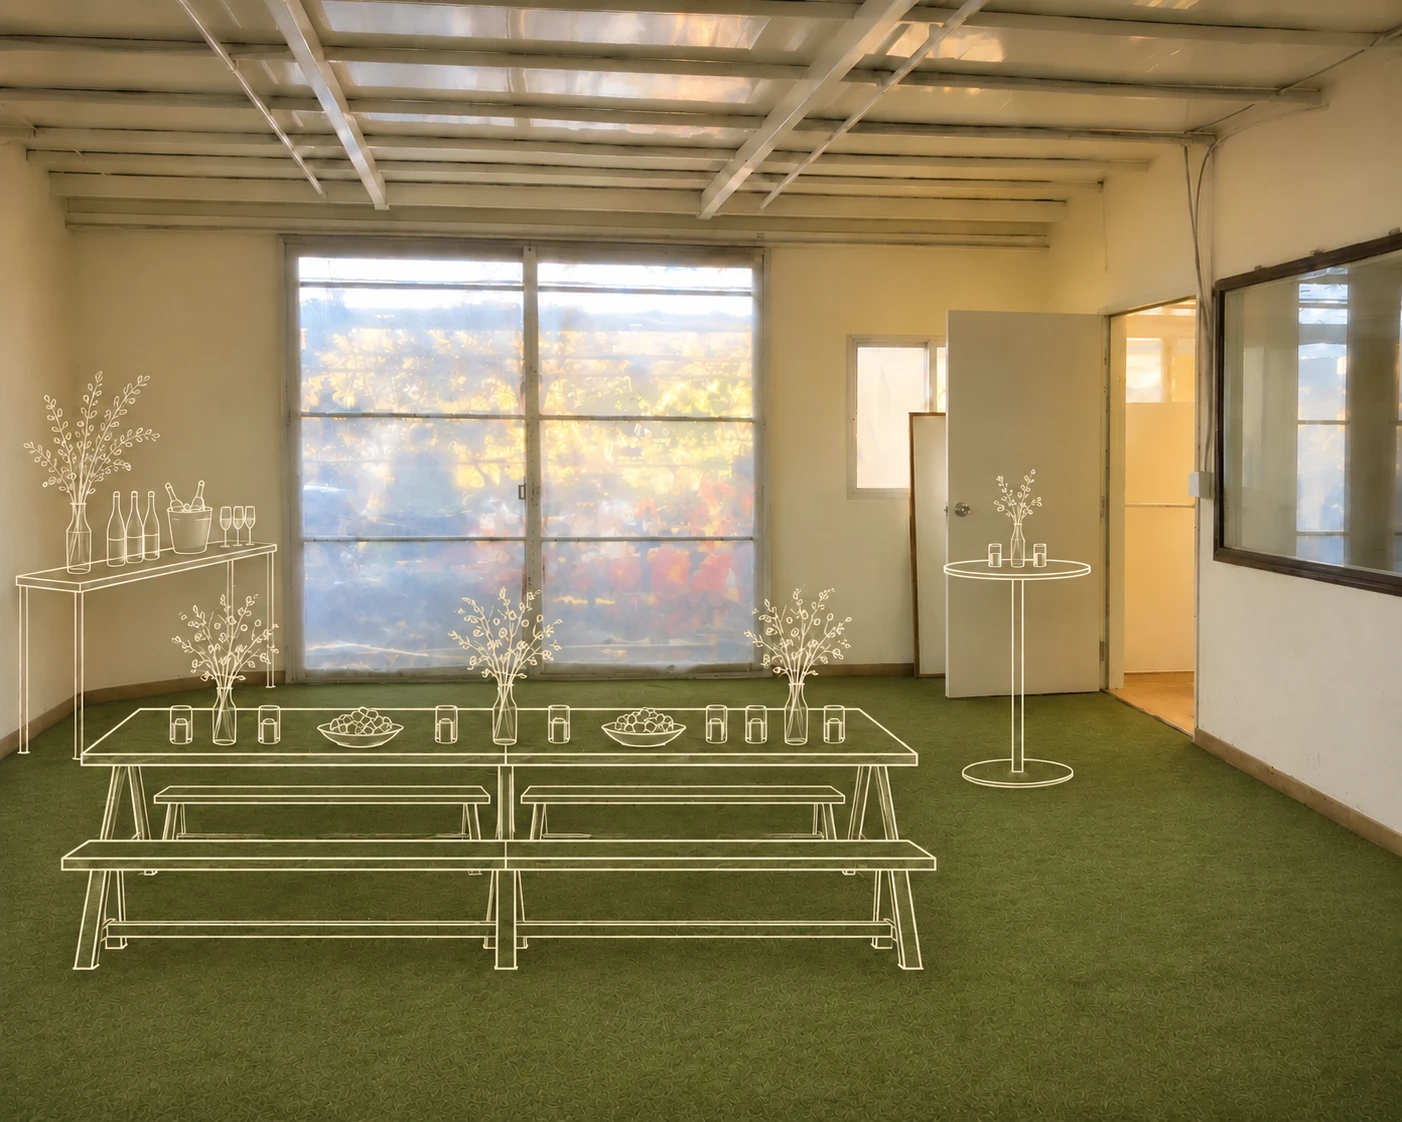
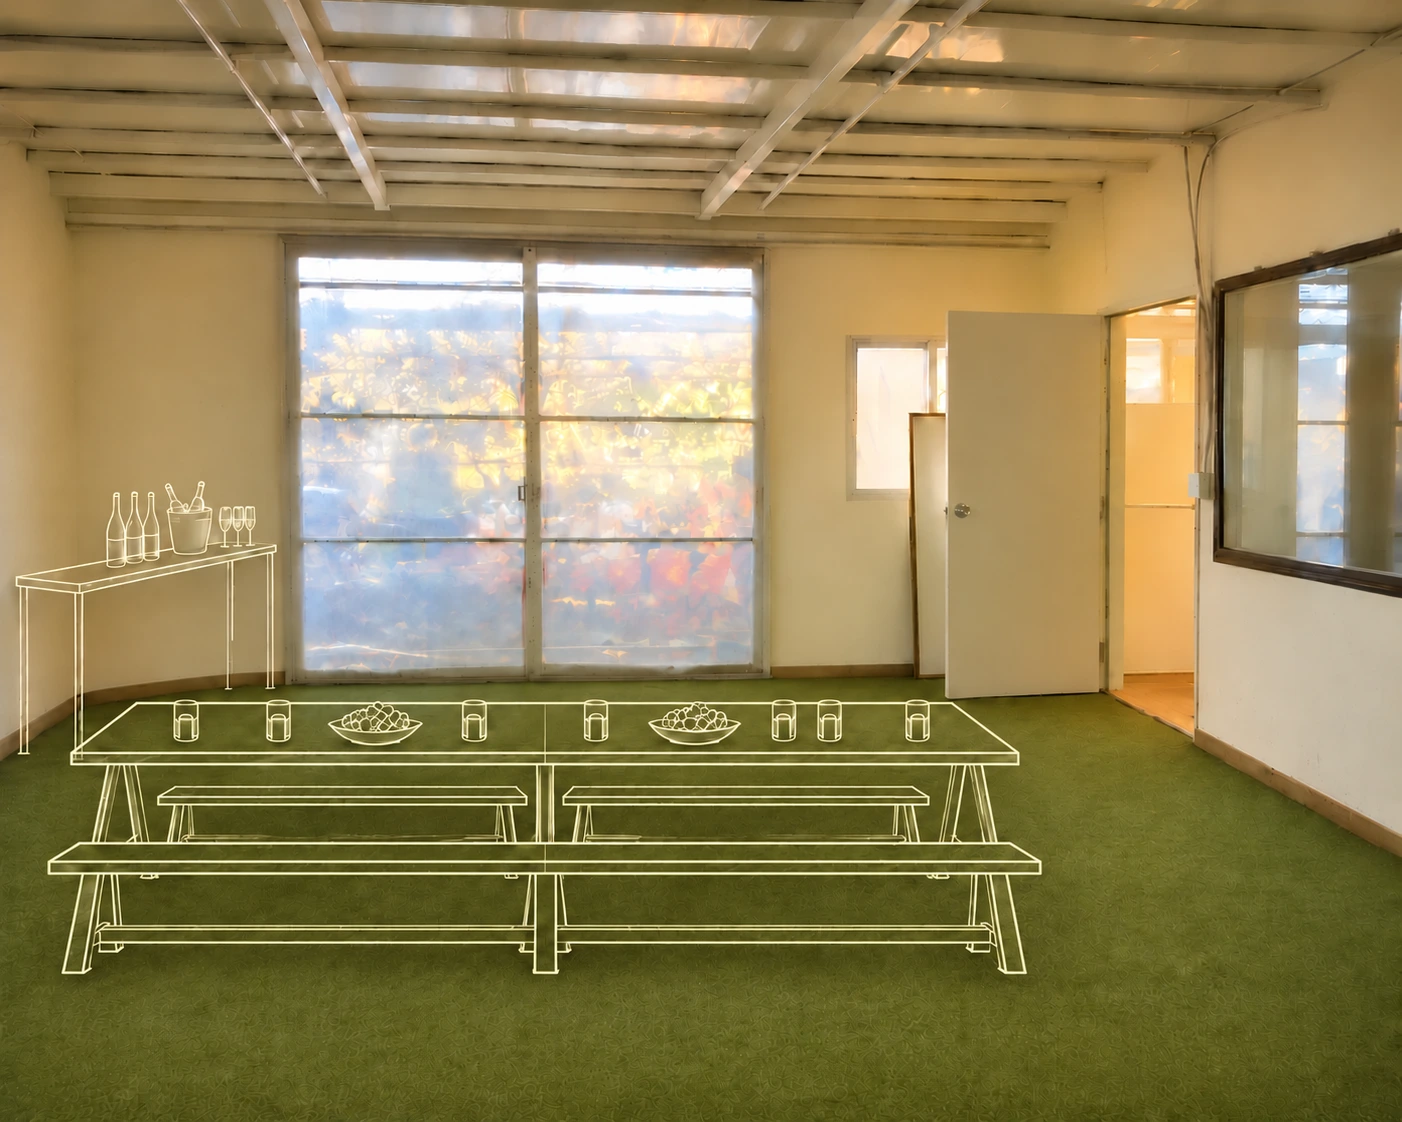
Mark the camp walkway and clear the party lounge doorway

diff --git a/index.html b/index.html
@@ -1,3 +1,3 @@
-<!doctype html><html lang="ko"><head><meta charset="utf-8"><meta name="viewport" content="width=device-width,initial-scale=1,viewport-fit=cover"><meta name="theme-color" content="#e9e2d6"><title>iHKG · 길드하우스</title><link rel="stylesheet" href="style.css"><link rel="stylesheet" href="camp-map.css?v=20261127-canvas"><link rel="stylesheet" href="shop.css?v=20261117-shop2"><link rel="stylesheet" href="signup.css?v=20261125-3"><link rel="stylesheet" href="event-layout.css?v=calendar1"></head><body><div id="app"><header><button id="mode" aria-label="지도와 목록 전환">☷</button><strong id="title">길드하우스 · Center Camp</strong><button id="filter" aria-label="필터">☷</button></header><main id="main"></main><div id="floating"><button id="fav" aria-label="즐겨찾기만 보기">♡</button></div><footer><nav aria-label="메인 메뉴"><button data-tab="map" aria-label="Map"><svg viewBox="0 0 24 24" aria-hidden="true"><path d="M3 5l6-2 6 2 6-2v16l-6 2-6-2-6 2ZM9 3v16M15 5v16"/></svg><small>Map</small></button><button data-tab="events" aria-label="Events"><svg viewBox="0 0 24 24" aria-hidden="true"><rect x="3" y="5" width="18" height="16" rx="2"/><path d="M7 3v4m10-4v4M3 10h18m-13 4h2m3 0h2m-7 3h2"/></svg><small>Events</small></button><button data-tab="shop" aria-label="Shop"><svg viewBox="0 0 24 24" aria-hidden="true"><path d="M5 8h14l2 13H3ZM8 9V6a4 4 0 0 1 8 0v3"/></svg><small>Shop</small></button><button data-tab="more" aria-label="More">•••<small>More</small></button></nav></footer></div><dialog id="detail"><div id="detailbody"></div></dialog><script src="site-places.js"></script><script src="shop.js?v=20261126-led1"></script><script src="camp-map.js?v=20261127-family"></script><script src="events-data.js?v=names7"></script><script src="signup-config.js?v=20261125-1"></script><script src="signup.js?v=20261125-confirm6"></script><script src="app.js?v=events-byline2"></script></body></html>
+<!doctype html><html lang="ko"><head><meta charset="utf-8"><meta name="viewport" content="width=device-width,initial-scale=1,viewport-fit=cover"><meta name="theme-color" content="#e9e2d6"><title>iHKG · 길드하우스</title><link rel="stylesheet" href="style.css"><link rel="stylesheet" href="camp-map.css?v=20261127-canvas"><link rel="stylesheet" href="shop.css?v=20261117-shop2"><link rel="stylesheet" href="signup.css?v=20261125-3"><link rel="stylesheet" href="event-layout.css?v=calendar1"></head><body><div id="app"><header><button id="mode" aria-label="지도와 목록 전환">☷</button><strong id="title">길드하우스 · Center Camp</strong><button id="filter" aria-label="필터">☷</button></header><main id="main"></main><div id="floating"><button id="fav" aria-label="즐겨찾기만 보기">♡</button></div><footer><nav aria-label="메인 메뉴"><button data-tab="map" aria-label="Map"><svg viewBox="0 0 24 24" aria-hidden="true"><path d="M3 5l6-2 6 2 6-2v16l-6 2-6-2-6 2ZM9 3v16M15 5v16"/></svg><small>Map</small></button><button data-tab="events" aria-label="Events"><svg viewBox="0 0 24 24" aria-hidden="true"><rect x="3" y="5" width="18" height="16" rx="2"/><path d="M7 3v4m10-4v4M3 10h18m-13 4h2m3 0h2m-7 3h2"/></svg><small>Events</small></button><button data-tab="shop" aria-label="Shop"><svg viewBox="0 0 24 24" aria-hidden="true"><path d="M5 8h14l2 13H3ZM8 9V6a4 4 0 0 1 8 0v3"/></svg><small>Shop</small></button><button data-tab="more" aria-label="More">•••<small>More</small></button></nav></footer></div><dialog id="detail"><div id="detailbody"></div></dialog><script src="site-places.js"></script><script src="shop.js?v=20261126-led1"></script><script src="camp-map.js?v=20261127-aisle"></script><script src="events-data.js?v=names7"></script><script src="signup-config.js?v=20261125-1"></script><script src="signup.js?v=20261125-confirm6"></script><script src="app.js?v=events-byline2"></script></body></html>
 
 

diff --git a/camp-map.js b/camp-map.js
@@ -125,8 +125,8 @@ window.GuildMap = (() => {
     {id:'wc2',title:'화장실 2',shape:'M204 48H261V141H204Z',x:232,y:100,files:[]},
     ...[3,2,1].map((n,i)=>({id:'sleep'+n,title:'침실 컨테이너 '+n,label:'침실 '+n,
       shape:`M${321+i*72} 48h72v93h-72Z`,x:357+i*72,y:100,files:[]})),
-    {id:'lounge',title:'라운지',shape:'M89 183H189V242H261V357H89Z',x:157,y:284,icon:'music',files:['lounge-plan.webp?v=3'],preview:true},
-    {id:'indoor',title:'캠핑 존',shape:'M537 48H603V357H261V242H189V183H537Z',x:414,y:272,icon:'tent',files:['camping-plan.webp?v=3'],preview:true}
+    {id:'lounge',title:'라운지',shape:'M89 183H189V242H261V357H89Z',x:157,y:284,icon:'music',files:['lounge-plan.webp?v=4'],preview:true},
+    {id:'indoor',title:'캠핑 존',shape:'M537 48H603V357H261V242H189V183H537Z',x:414,y:272,icon:'tent',files:['camping-plan.webp?v=4'],preview:true}
   ];
   function insideIcon(id){
     const icons={
